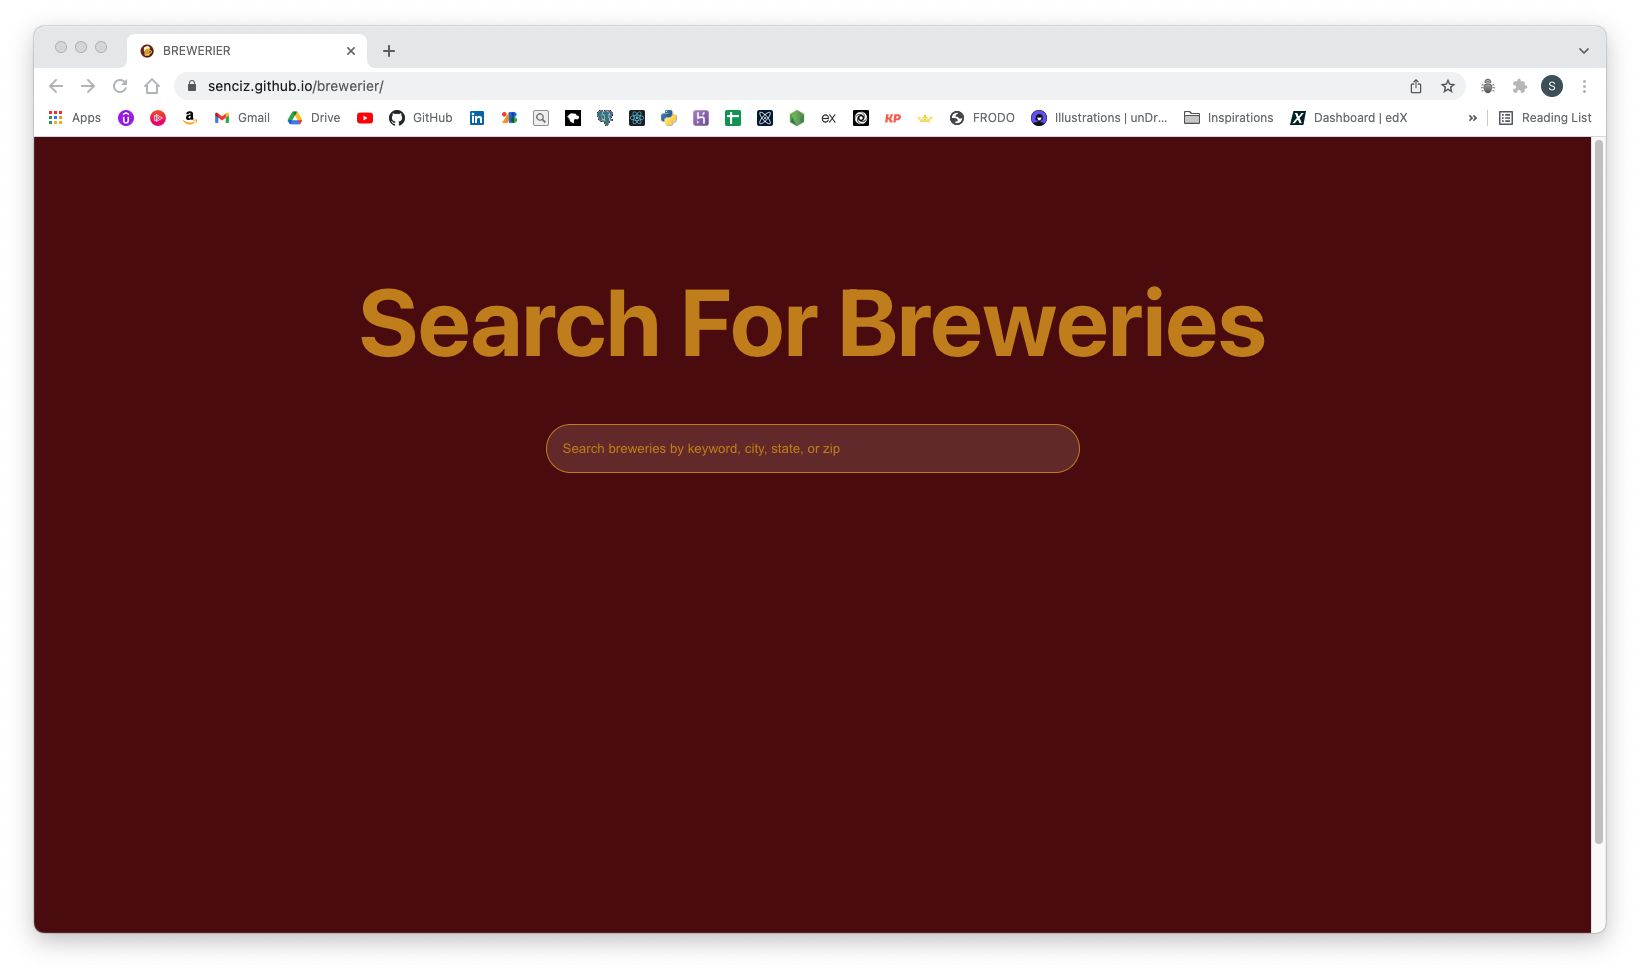
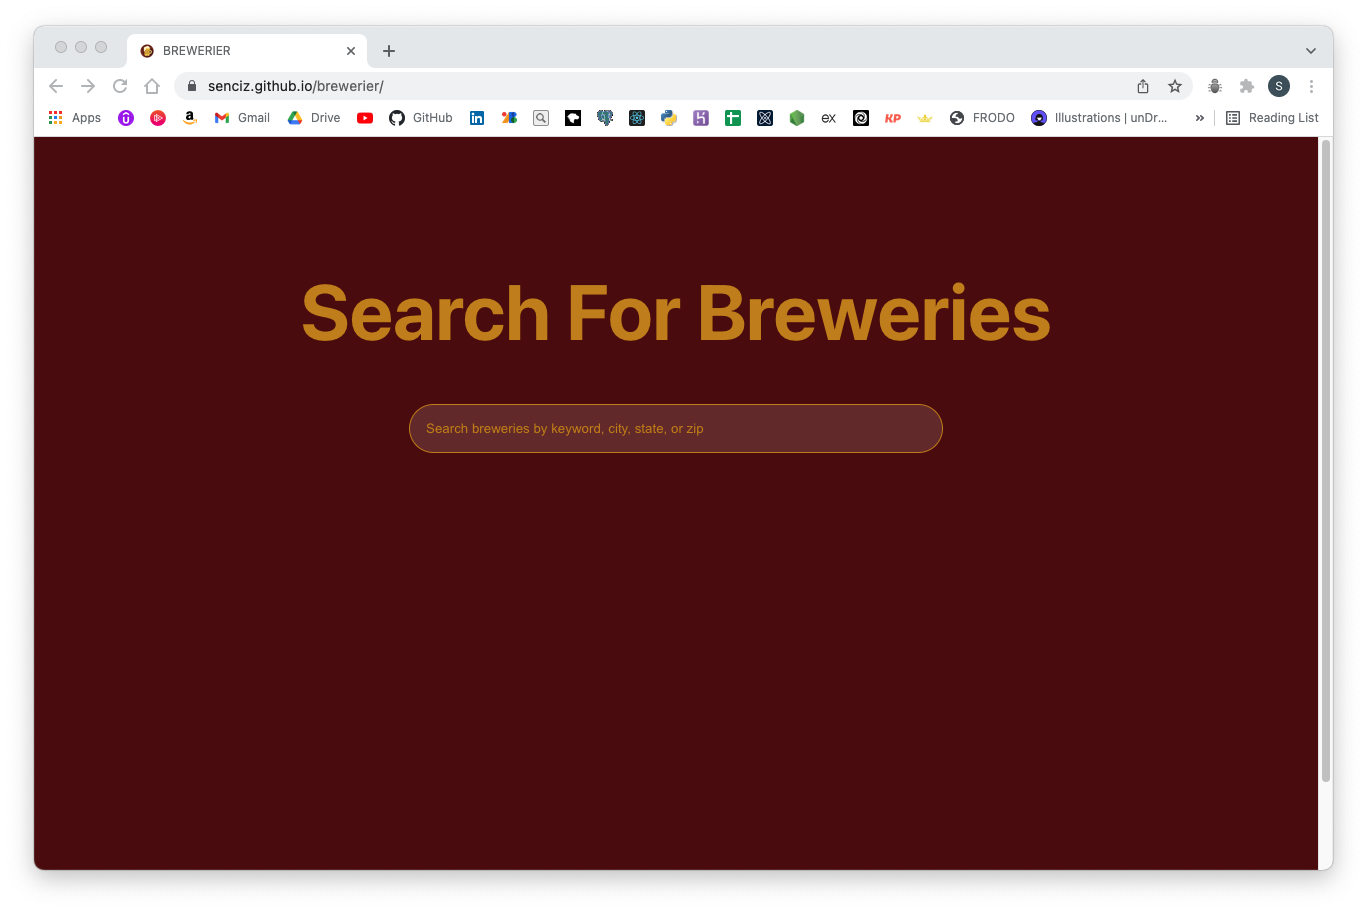
fix screenshot

Changed region(s): [[0.0, 0.0307, 0.9832, 0.9825], [0.2151, 0.2763, 0.7681, 0.3684], [0.2765, 0.4298, 0.7067, 0.5219]]

diff --git a/build/index.html b/build/index.html
@@ -1,1 +1,1 @@
-<!doctype html><html lang="en"><head><meta charset="utf-8"/><link rel="icon" href="/brewerier/brewerier.png"/><meta name="viewport" content="width=device-width,initial-scale=1"/><meta name="theme-color" content="#000000"/><meta name="description" content="Web site created using create-react-app"/><link rel="apple-touch-icon" href="/brewerier/logo192.png"/><link rel="manifest" href="/brewerier/manifest.json"/><title>BREWERIER</title><link href="/brewerier/static/css/main.77c9de87.chunk.css" rel="stylesheet"></head><body><noscript>You need to enable JavaScript to run this app.</noscript><div id="root"></div><script>!function(e){function r(r){for(var n,p,l=r[0],a=r[1],i=r[2],c=0,s=[];c<l.length;c++)p=l[c],Object.prototype.hasOwnProperty.call(o,p)&&o[p]&&s.push(o[p][0]),o[p]=0;for(n in a)Object.prototype.hasOwnProperty.call(a,n)&&(e[n]=a[n]);for(f&&f(r);s.length;)s.shift()();return u.push.apply(u,i||[]),t()}function t(){for(var e,r=0;r<u.length;r++){for(var t=u[r],n=!0,l=1;l<t.length;l++){var a=t[l];0!==o[a]&&(n=!1)}n&&(u.splice(r--,1),e=p(p.s=t[0]))}return e}var n={},o={1:0},u=[];function p(r){if(n[r])return n[r].exports;var t=n[r]={i:r,l:!1,exports:{}};return e[r].call(t.exports,t,t.exports,p),t.l=!0,t.exports}p.m=e,p.c=n,p.d=function(e,r,t){p.o(e,r)||Object.defineProperty(e,r,{enumerable:!0,get:t})},p.r=function(e){"undefined"!=typeof Symbol&&Symbol.toStringTag&&Object.defineProperty(e,Symbol.toStringTag,{value:"Module"}),Object.defineProperty(e,"__esModule",{value:!0})},p.t=function(e,r){if(1&r&&(e=p(e)),8&r)return e;if(4&r&&"object"==typeof e&&e&&e.__esModule)return e;var t=Object.create(null);if(p.r(t),Object.defineProperty(t,"default",{enumerable:!0,value:e}),2&r&&"string"!=typeof e)for(var n in e)p.d(t,n,function(r){return e[r]}.bind(null,n));return t},p.n=function(e){var r=e&&e.__esModule?function(){return e.default}:function(){return e};return p.d(r,"a",r),r},p.o=function(e,r){return Object.prototype.hasOwnProperty.call(e,r)},p.p="/brewerier/";var l=this["webpackJsonpapp-8"]=this["webpackJsonpapp-8"]||[],a=l.push.bind(l);l.push=r,l=l.slice();for(var i=0;i<l.length;i++)r(l[i]);var f=a;t()}([])</script><script src="/brewerier/static/js/2.9bf3e907.chunk.js"></script><script src="/brewerier/static/js/main.a06ea896.chunk.js"></script></body></html>
+<!doctype html><html lang="en"><head><meta charset="utf-8"/><link rel="icon" href="/brewerier/brewerier.png"/><meta name="viewport" content="width=device-width,initial-scale=1"/><meta name="theme-color" content="#000000"/><meta name="description" content="Web site created using create-react-app"/><link rel="apple-touch-icon" href="/brewerier/logo192.png"/><link rel="manifest" href="/brewerier/manifest.json"/><title>BREWERIER</title><link href="/brewerier/static/css/main.347c2202.chunk.css" rel="stylesheet"></head><body><noscript>You need to enable JavaScript to run this app.</noscript><div id="root"></div><script>!function(e){function r(r){for(var n,p,l=r[0],a=r[1],i=r[2],c=0,s=[];c<l.length;c++)p=l[c],Object.prototype.hasOwnProperty.call(o,p)&&o[p]&&s.push(o[p][0]),o[p]=0;for(n in a)Object.prototype.hasOwnProperty.call(a,n)&&(e[n]=a[n]);for(f&&f(r);s.length;)s.shift()();return u.push.apply(u,i||[]),t()}function t(){for(var e,r=0;r<u.length;r++){for(var t=u[r],n=!0,l=1;l<t.length;l++){var a=t[l];0!==o[a]&&(n=!1)}n&&(u.splice(r--,1),e=p(p.s=t[0]))}return e}var n={},o={1:0},u=[];function p(r){if(n[r])return n[r].exports;var t=n[r]={i:r,l:!1,exports:{}};return e[r].call(t.exports,t,t.exports,p),t.l=!0,t.exports}p.m=e,p.c=n,p.d=function(e,r,t){p.o(e,r)||Object.defineProperty(e,r,{enumerable:!0,get:t})},p.r=function(e){"undefined"!=typeof Symbol&&Symbol.toStringTag&&Object.defineProperty(e,Symbol.toStringTag,{value:"Module"}),Object.defineProperty(e,"__esModule",{value:!0})},p.t=function(e,r){if(1&r&&(e=p(e)),8&r)return e;if(4&r&&"object"==typeof e&&e&&e.__esModule)return e;var t=Object.create(null);if(p.r(t),Object.defineProperty(t,"default",{enumerable:!0,value:e}),2&r&&"string"!=typeof e)for(var n in e)p.d(t,n,function(r){return e[r]}.bind(null,n));return t},p.n=function(e){var r=e&&e.__esModule?function(){return e.default}:function(){return e};return p.d(r,"a",r),r},p.o=function(e,r){return Object.prototype.hasOwnProperty.call(e,r)},p.p="/brewerier/";var l=this["webpackJsonpapp-8"]=this["webpackJsonpapp-8"]||[],a=l.push.bind(l);l.push=r,l=l.slice();for(var i=0;i<l.length;i++)r(l[i]);var f=a;t()}([])</script><script src="/brewerier/static/js/2.9bf3e907.chunk.js"></script><script src="/brewerier/static/js/main.a06ea896.chunk.js"></script></body></html>

diff --git a/build/static/css/main.347c2202.chunk.css b/build/static/css/main.347c2202.chunk.css
@@ -1,0 +1,2 @@
+body{margin:0;font-family:-apple-system,BlinkMacSystemFont,"Segoe UI","Roboto","Oxygen","Ubuntu","Cantarell","Fira Sans","Droid Sans","Helvetica Neue",sans-serif;-webkit-font-smoothing:antialiased;-moz-osx-font-smoothing:grayscale}code{font-family:source-code-pro,Menlo,Monaco,Consolas,"Courier New",monospace}*{padding:0;margin:0}html{width:100%;min-height:100%}.Modal{background-color:#4169e1;width:50%;height:50%;position:fixed;top:25vh}h4{padding:.5rem;color:rgba(199,136,0,.8)}.App{display:flex;flex-direction:column;align-items:center;background-color:#530b0b;padding:3rem;min-height:100vh}h1{font-size:clamp(4rem,6vw,9rem);color:#c78800;margin-top:5rem}.breweryCard,h1{text-align:center}.breweryCard{background-color:rgba(0,0,0,.3);border-radius:15px;border:1px solid #c78800;padding:.5rem 1rem;margin:2rem;display:flex;flex-direction:column;justify-content:center;align-items:center}.cardContainer{justify-content:center;max-width:600px;width:100%;flex-wrap:wrap;padding:2rem}.breweryName{color:hsla(0,0%,100%,.7);font-size:2rem}input{padding:1rem;border-radius:50px;max-width:500px;width:70%;border:1px solid #c78800;background-color:hsla(0,0%,100%,.15);color:#c78800;margin-top:3rem}input::-webkit-input-placeholder{color:#c78800}input:-ms-input-placeholder{color:#c78800}input::placeholder{color:#c78800}input:focus{outline:none}
+/*# sourceMappingURL=main.347c2202.chunk.css.map */

diff --git a/build/precache-manifest.8d1e8da70548a79cb1fb7b32a8c35cf9.js b/build/precache-manifest.8d1e8da70548a79cb1fb7b32a8c35cf9.js
@@ -1,11 +1,11 @@
 self.__precacheManifest = (self.__precacheManifest || []).concat([
   {
-    "revision": "4bc1a16e1289c7becfcac1f9f214360d",
+    "revision": "6560123034b5ac5a9aa51deaaf8b7fe2",
     "url": "/brewerier/index.html"
   },
   {
-    "revision": "9b8f62a8d8af5e75243a",
-    "url": "/brewerier/static/css/main.77c9de87.chunk.css"
+    "revision": "5a8ea4c23f603f3939a2",
+    "url": "/brewerier/static/css/main.347c2202.chunk.css"
   },
   {
     "revision": "a43c176e0dc855c97eb2",
@@ -16,7 +16,7 @@ self.__precacheManifest = (self.__precacheManifest || []).concat([
     "url": "/brewerier/static/js/2.9bf3e907.chunk.js.LICENSE.txt"
   },
   {
-    "revision": "9b8f62a8d8af5e75243a",
+    "revision": "5a8ea4c23f603f3939a2",
     "url": "/brewerier/static/js/main.a06ea896.chunk.js"
   },
   {

diff --git a/build/service-worker.js b/build/service-worker.js
@@ -14,7 +14,7 @@
 importScripts("https://storage.googleapis.com/workbox-cdn/releases/4.3.1/workbox-sw.js");
 
 importScripts(
-  "/brewerier/precache-manifest.bb850308ce86a30d38ac5fcc8685baba.js"
+  "/brewerier/precache-manifest.8d1e8da70548a79cb1fb7b32a8c35cf9.js"
 );
 
 self.addEventListener('message', (event) => {
